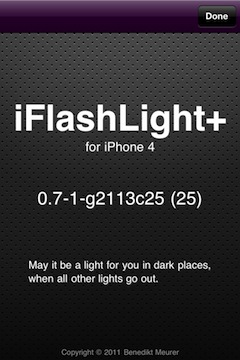
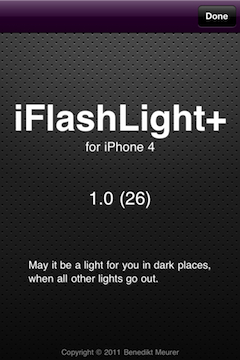
Update for iFlashLight+ 1.0.

Changed region(s): [[0.1458, 0.5194, 0.8458, 0.5806]]

diff --git a/iFlashLightPlus/contact/index.html b/iFlashLightPlus/contact/index.html
@@ -19,7 +19,7 @@ description: Turn your iPhone 4 into a flash light
   <h1>Contact Me</h1>
 
   <p>
-    <a href="&#109;&#97;&#105;&#108;&#116;&#111;:&#80;&#104;&#111;&#116;&#111;&#65;&#99;&#99;&#101;&#115;&#115;&#64;&#98;&#101;&#110;&#101;&#100;&#105;&#107;&#116;&#109;&#101;&#117;&#114;&#101;&#114;&#46;&#100;&#101;">&#80;&#104;&#111;&#116;&#111;&#65;&#99;&#99;&#101;&#115;&#115;&#64;&#98;&#101;&#110;&#101;&#100;&#105;&#107;&#116;&#109;&#101;&#117;&#114;&#101;&#114;&#46;&#100;&#101;</a>
+    <a href="&#109;&#97;&#105;&#108;&#116;&#111;:&#70;&#108;&#97;&#115;&#104;&#76;&#105;&#103;&#104;&#116;&#64;&#98;&#101;&#110;&#101;&#100;&#105;&#107;&#116;&#109;&#101;&#117;&#114;&#101;&#114;&#46;&#100;&#101;">&#70;&#108;&#97;&#115;&#104;&#76;&#105;&#103;&#104;&#116;&#64;&#98;&#101;&#110;&#101;&#100;&#105;&#107;&#116;&#109;&#101;&#117;&#114;&#101;&#114;&#46;&#100;&#101;</a>
   </p>
 
   <p>

diff --git a/iFlashLightPlus/index.html b/iFlashLightPlus/index.html
@@ -21,7 +21,11 @@ description: Turn your iPhone 4 into a flash light
 </nav>
   
 <article>
-  <h1>Flashlight for your iPhone 4</h1>
+  <h1>May it be a light...</h1>
+
+  <p>
+    ...for you in dark places, when all other lights go out.
+  </p>
 
   <p>
     With iFlashLight+ you can turn your smart phone into a flash light using the
